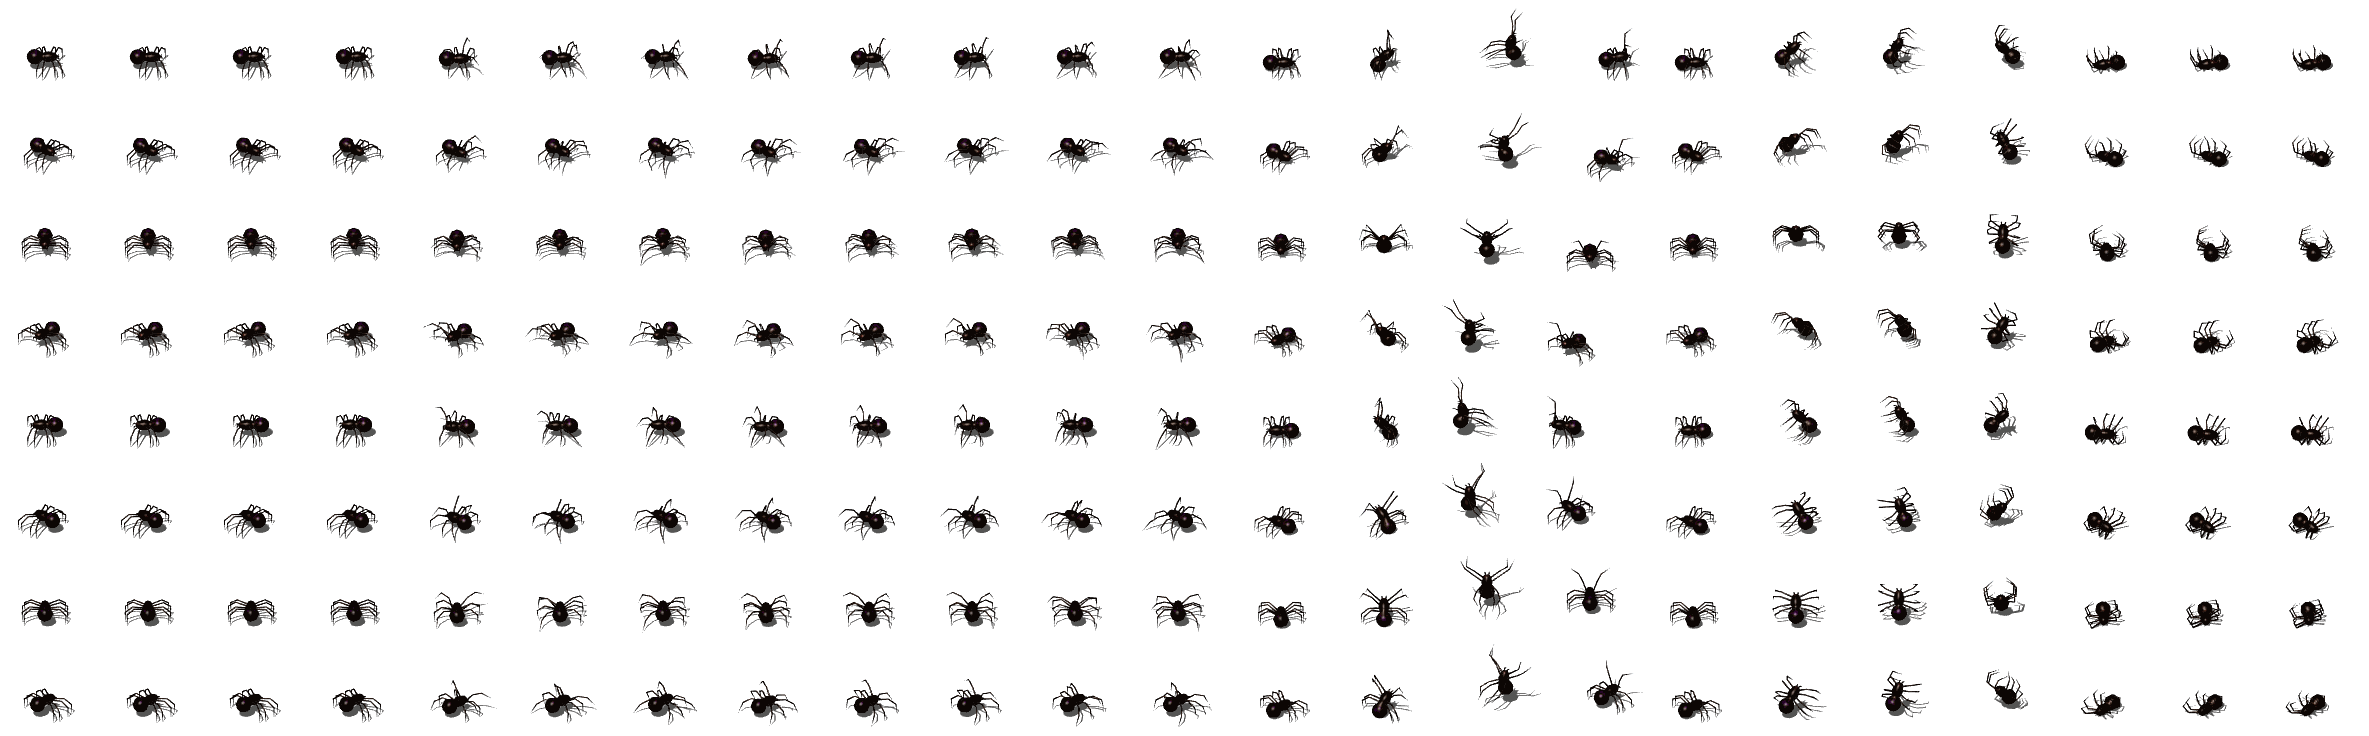
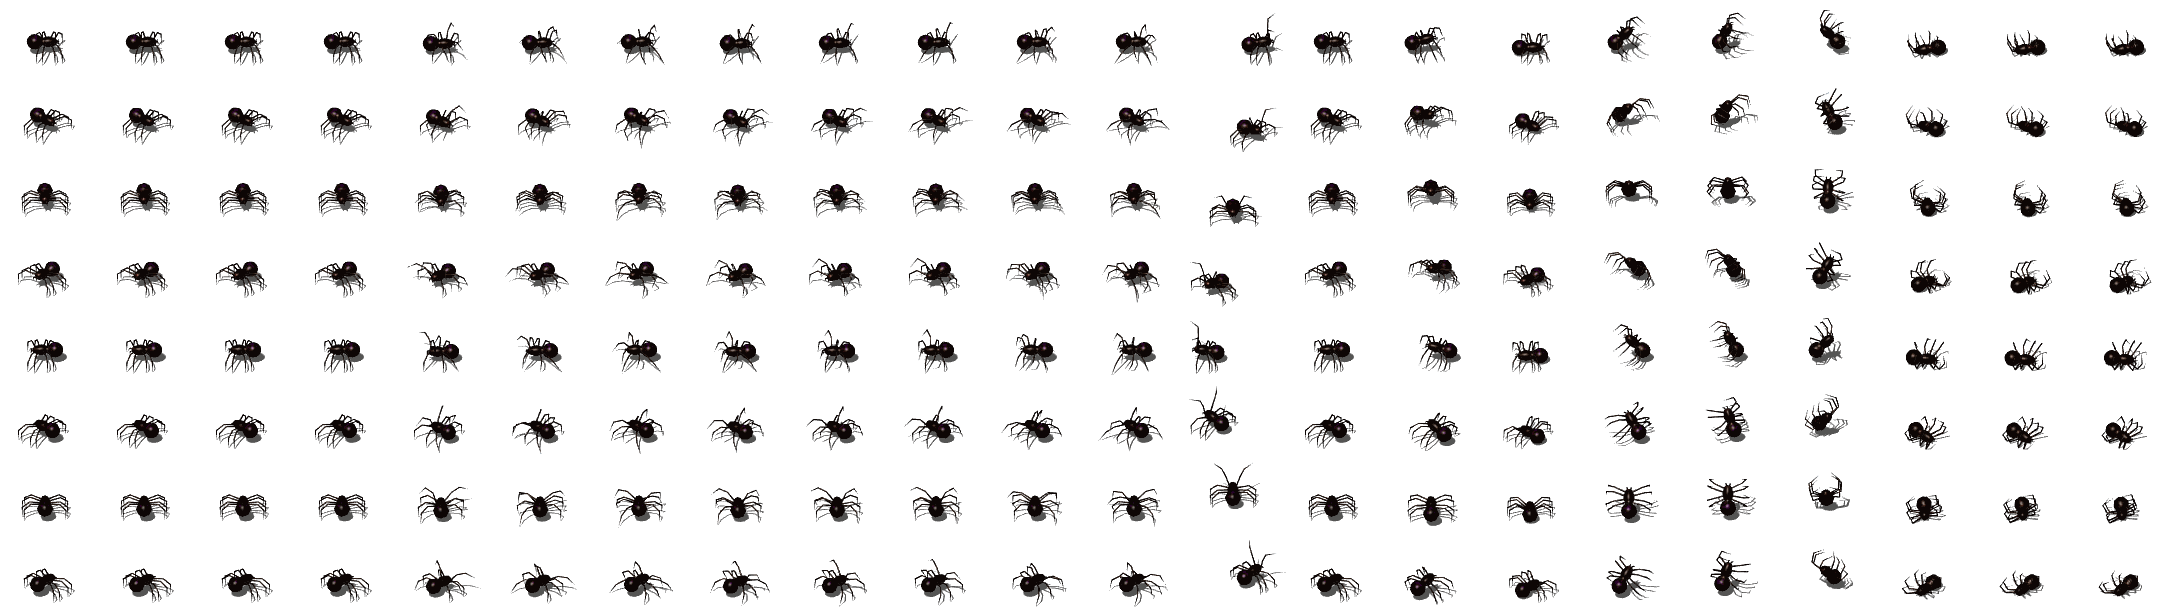
Spiders attack toward their target
Frames 13-14 of the spider sheets are a rear-up that swings the body round, so the
attack read as backwards. Spider attacks now use frames 15-17 (strike and lunge,
facing the way they walk). The asset build no longer packs the unused Kenney hero.

Claude-Session: https://claude.ai/code/session_01UDBb6tYEckpDVdd1LZ9dE7

diff --git a/tools/build_assets.py b/tools/build_assets.py
@@ -71,28 +71,20 @@ def pack(name, frames_by_dir, anims, fw, fh, anchor, base=4):
     sheet.quantize(256, method=Image.FASTOCTREE).save(os.path.join(OUT, 'units', name + '.png'), optimize=True)
     manifest['units'][name] = {'fw': cw, 'fh': ch, 'ax': anchor[0] - box[0], 'ay': anchor[1] - box[1], 'anims': anims, 'base': base}
 
-# The Kenney hero: Idle0, Run0-9, Pickup0-9 per direction (Kenney index: 0 NE, 1 E, 2 SE, 3 S, 4 SW, 5 W, 6 NW, 7 N).
-rows = []
-for d in range(8):
-    k = (d + 1) % 8
-    names = ['Idle0'] + [f'Run{i}' for i in range(10)] + [f'Pickup{i}' for i in range(10)]
-    row = []
-    for nm in names:
-        im = Image.open(os.path.join(KDIR, 'Characters', 'Male', f'Male_{k}_{nm}.png')).convert('RGBA')
-        row.append(im.resize((128, 256), Image.LANCZOS))
-    rows.append(row)
-pack('hero', rows, {'idle': [0, 1], 'run': [1, 10], 'act': [11, 10]}, 128, 256, (64, ANCHOR[1] * SCALE))
+# (The heroes come from tools/build_heroes.py, one sheet per calling.)
 
 # Flare sheets: one row per direction (Flare row: 0 W, 1 NW, 2 N, 3 NE, 4 E, 5 SE, 6 S, 7 SW), frames left to right.
 # spec: file, frame size, [(anim, first, count)], downscale, feet anchor within the frame (Flare: centre, ~3/4 down)
+# Spiders: frames 13–14 of their sheet are a rear-up that turns the body round, so it reads as attacking backwards;
+# their attack uses 15–17 (strike and lunge, facing the way they walk).
 FLARE = {
     'orc':      ('orc_regular_0.png', 128, [('idle', 0, 4), ('run', 4, 8), ('attack', 12, 4), ('hit', 20, 1), ('die', 20, 4)], 1.0),
     'orcHeavy': ('orc_heavy_1.png', 128, [('idle', 0, 4), ('run', 4, 8), ('attack', 12, 4), ('hit', 20, 1), ('die', 20, 4)], 1.0),
     'orcElite': ('orc_elite_0.png', 128, [('idle', 0, 4), ('run', 4, 8), ('attack', 24, 4), ('hit', 20, 1), ('die', 20, 4)], 1.0),
     'archer':   ('orc_archer_0.png', 128, [('idle', 0, 4), ('run', 4, 8), ('attack', 28, 4), ('hit', 20, 1), ('die', 20, 4)], 1.0),
     'slime':    ('slime_0.png', 128, [('idle', 0, 4), ('run', 4, 8), ('attack', 16, 6), ('hit', 24, 2), ('die', 26, 8)], 1.0),
-    'spider':   ('spider_0.png', 128, [('idle', 0, 4), ('run', 4, 8), ('attack', 12, 4), ('hit', 24, 1), ('die', 18, 6)], 1.0),
-    'spiderGiant': ('spider_giant.png', 128, [('idle', 0, 4), ('run', 4, 8), ('attack', 12, 4), ('hit', 24, 1), ('die', 18, 6)], 1.0),
+    'spider':   ('spider_0.png', 128, [('idle', 0, 4), ('run', 4, 8), ('attack', 15, 3), ('hit', 24, 1), ('die', 18, 6)], 1.0),
+    'spiderGiant': ('spider_giant.png', 128, [('idle', 0, 4), ('run', 4, 8), ('attack', 15, 3), ('hit', 24, 1), ('die', 18, 6)], 1.0),
     'werebear': ('werebear_brown_armor.png', 128, [('idle', 0, 4), ('run', 4, 8), ('attack', 12, 4), ('hit', 20, 1), ('die', 20, 4)], 1.0),
     'demon':    ('demon_0.png', 256, [('idle', 0, 4), ('run', 4, 8), ('attack', 12, 8), ('hit', 28, 2), ('die', 32, 10)], 0.5),
 }
